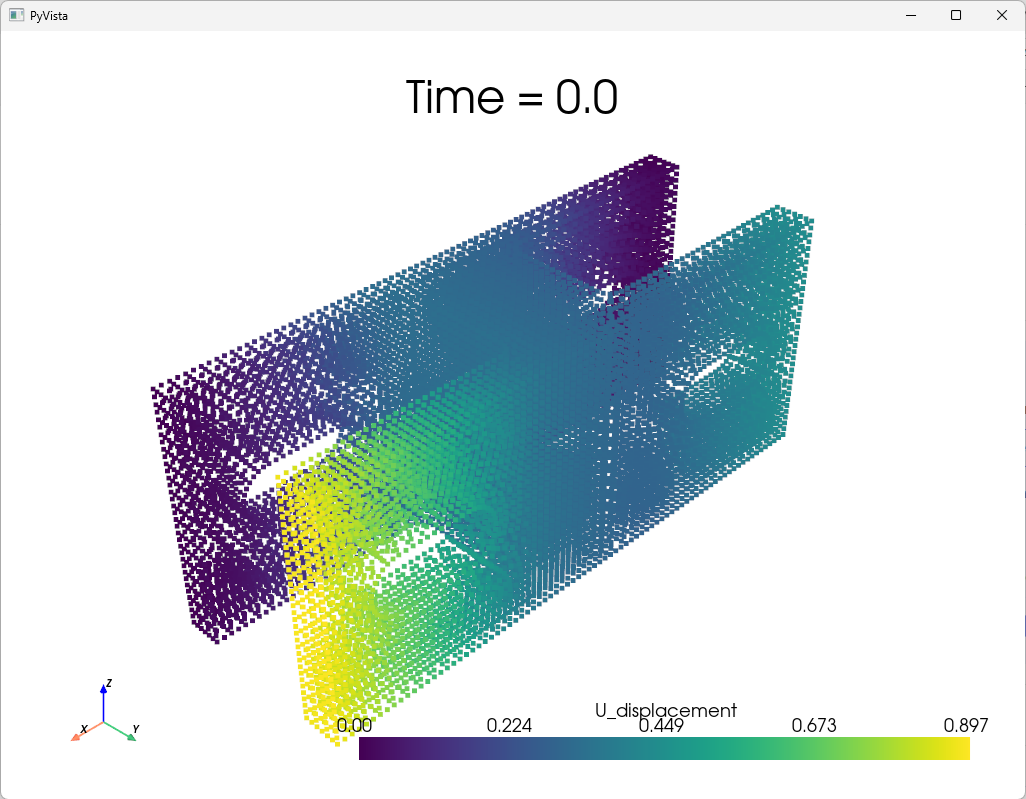
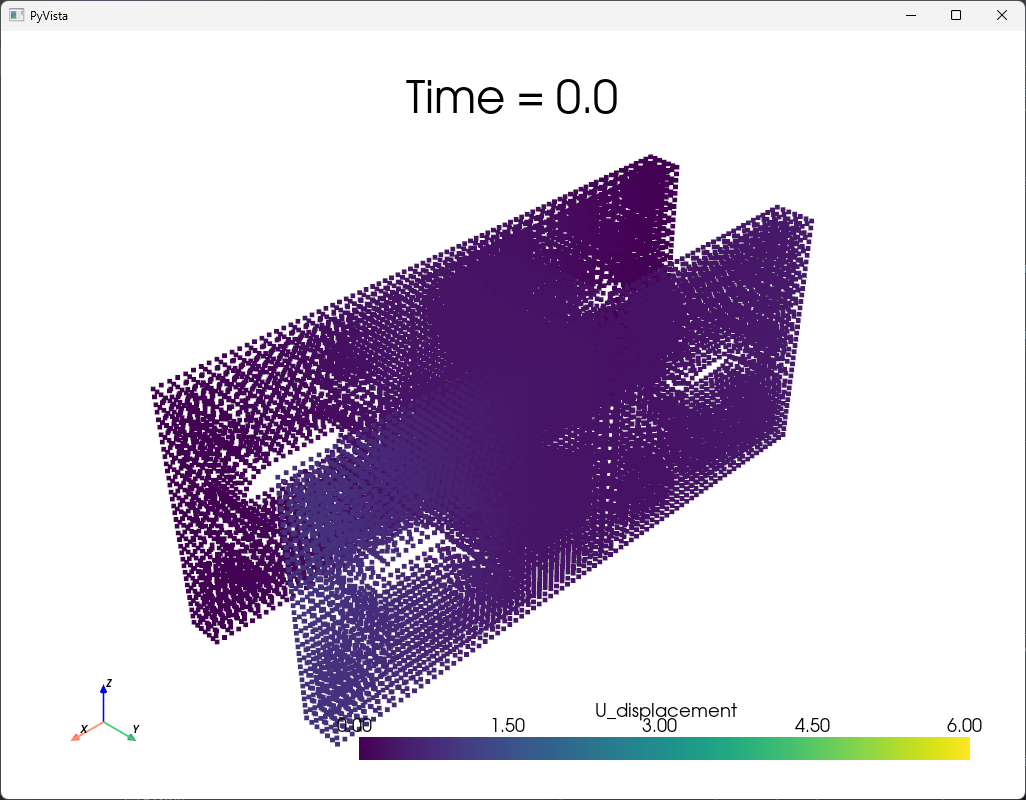
update plots based on PR review

diff --git a/examples/02-tbrom_examples/07-TBROM_parametric_field_history.py b/examples/02-tbrom_examples/07-TBROM_parametric_field_history.py
@@ -104,7 +104,7 @@ field_data = twin_model.get_tbrom_output_field(romname)
 plotter = pv.Plotter()
 plotter.set_background("white")
 plotter.add_axes()
-plotter.add_mesh(field_data, scalar_bar_args={"color": "black"})
+plotter.add_mesh(field_data, scalar_bar_args={"color": "black"}, clim=[0.0, 6.0])
 plotter.add_title("Time = {}".format(twin_model.evaluation_time))
 plotter.show()
 print(max(field_data.active_scalars))
@@ -130,7 +130,7 @@ field_data = twin_model.get_tbrom_output_field(romname)
 plotter = pv.Plotter()
 plotter.set_background("white")
 plotter.add_axes()
-plotter.add_mesh(field_data, scalar_bar_args={"color": "black"})
+plotter.add_mesh(field_data, scalar_bar_args={"color": "black"}, clim=[0.0, 6.0])
 plotter.add_title("Time = {}".format(twin_model.evaluation_time))
 plotter.show()
 print(max(field_data.active_scalars))
@@ -147,7 +147,7 @@ field_data = twin_model.get_tbrom_output_field(romname)
 plotter = pv.Plotter()
 plotter.set_background("white")
 plotter.add_axes()
-plotter.add_mesh(field_data, scalar_bar_args={"color": "black"})
+plotter.add_mesh(field_data, scalar_bar_args={"color": "black"}, clim=[0.0, 6.0])
 plotter.add_title("Time = {}".format(twin_model.evaluation_time))
 plotter.show()
 print(max(field_data.active_scalars))
